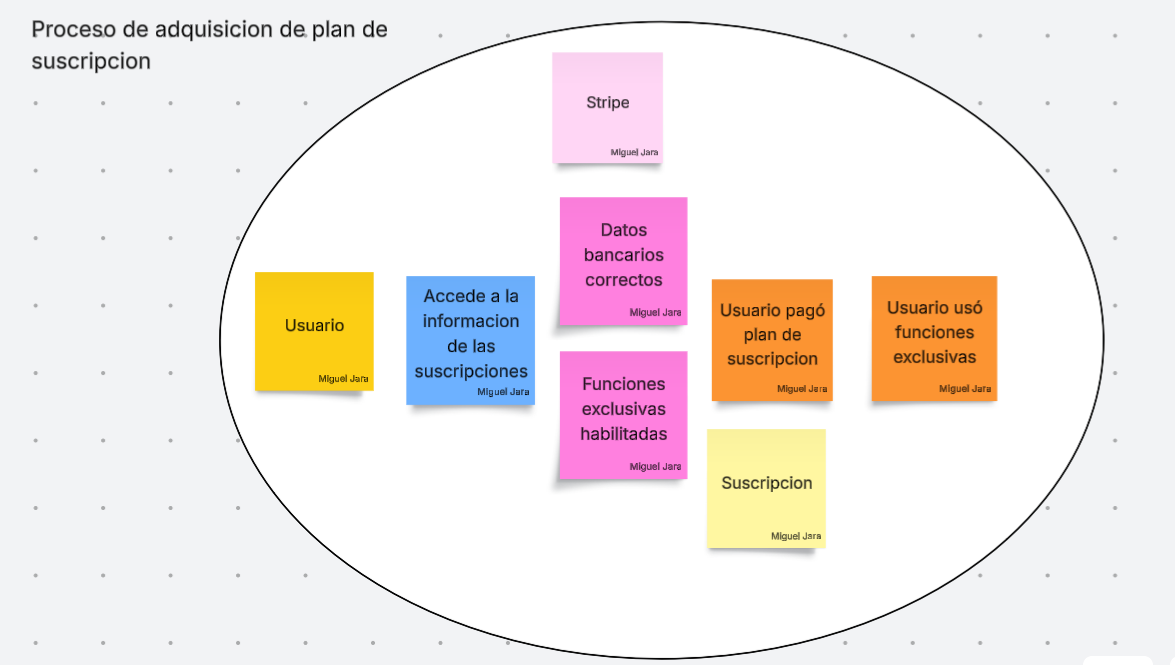
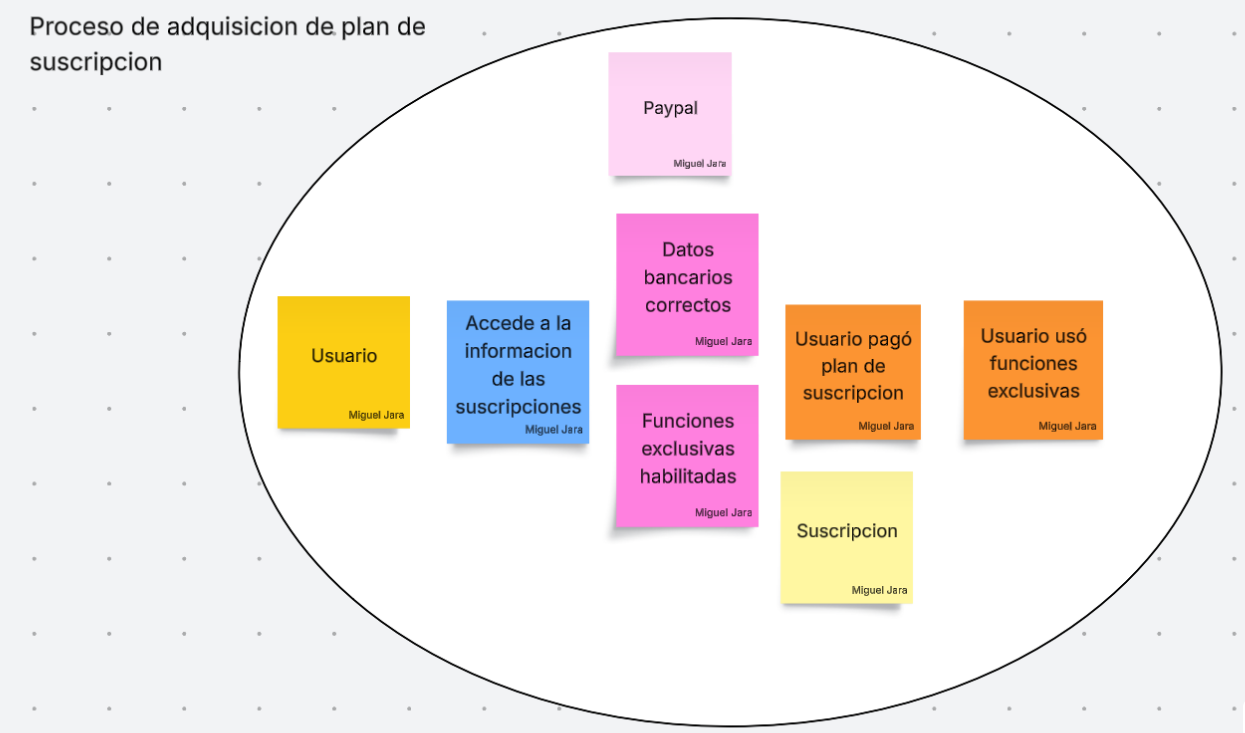
doc(chapter4.md) context diagram

diff --git a/docs/chapter-4.md b/docs/chapter-4.md
@@ -210,8 +210,11 @@ La sesión se llevó a cabo de manera colaborativa utilizando la herramienta Luc
 <img alt="Design-Level Event Storming 5" src="../images/Bounded5.png"/>
 
 ### 4.6.2. Software Architecture Context Diagram
+<img alt="Design-Level Event Storming 1" src="../images/contextdiagram.png"/>
 
 ### 4.6.3. Software Architecture Container Diagrams
+
+
 
 ### 4.6.4. Software Architecture Components Diagrams
 
